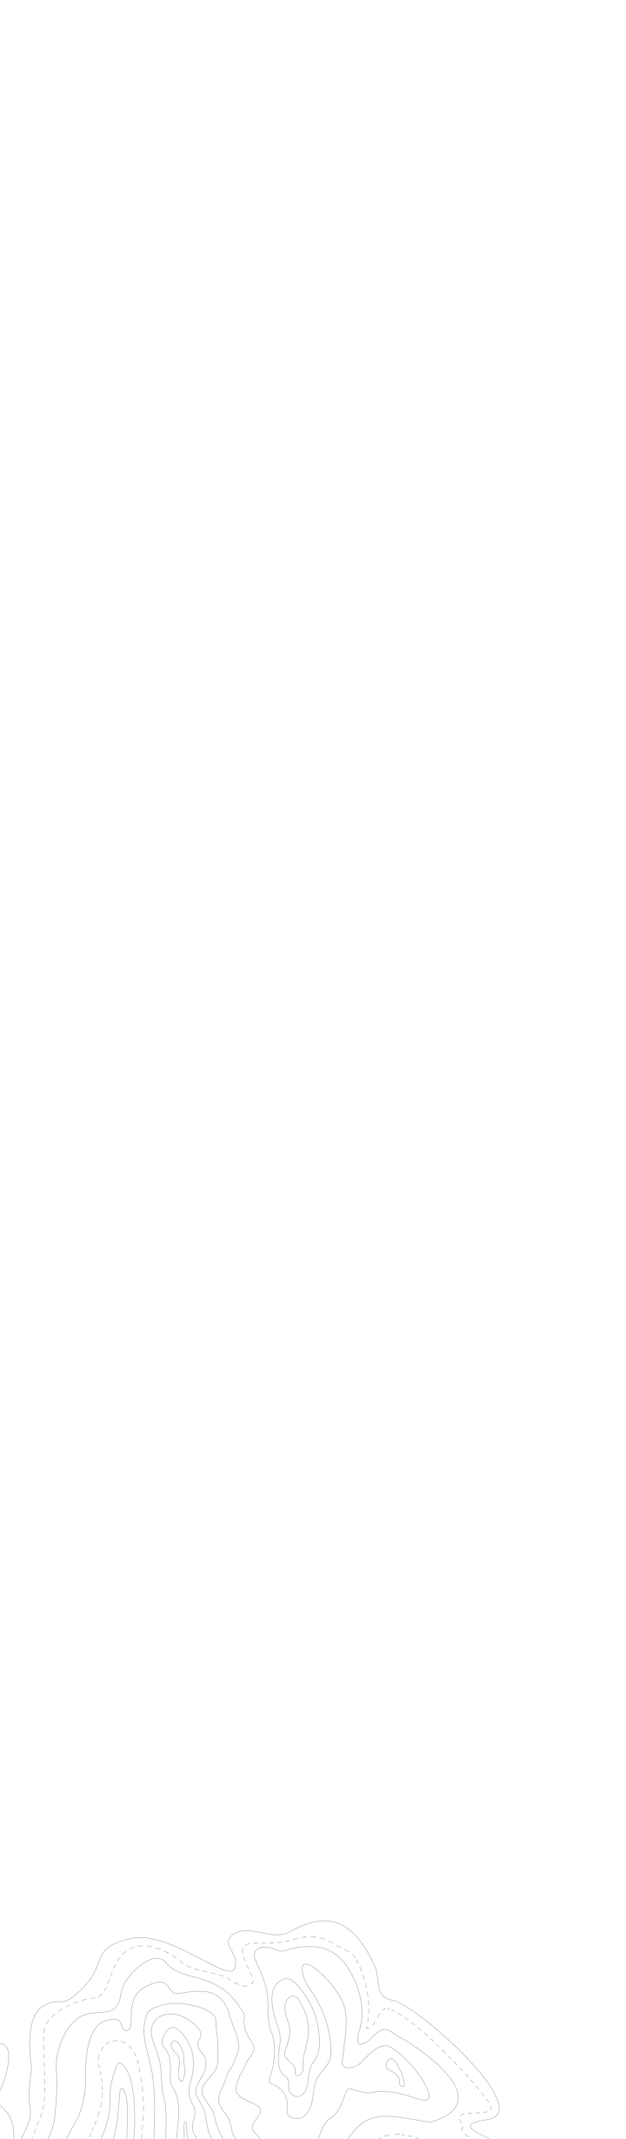
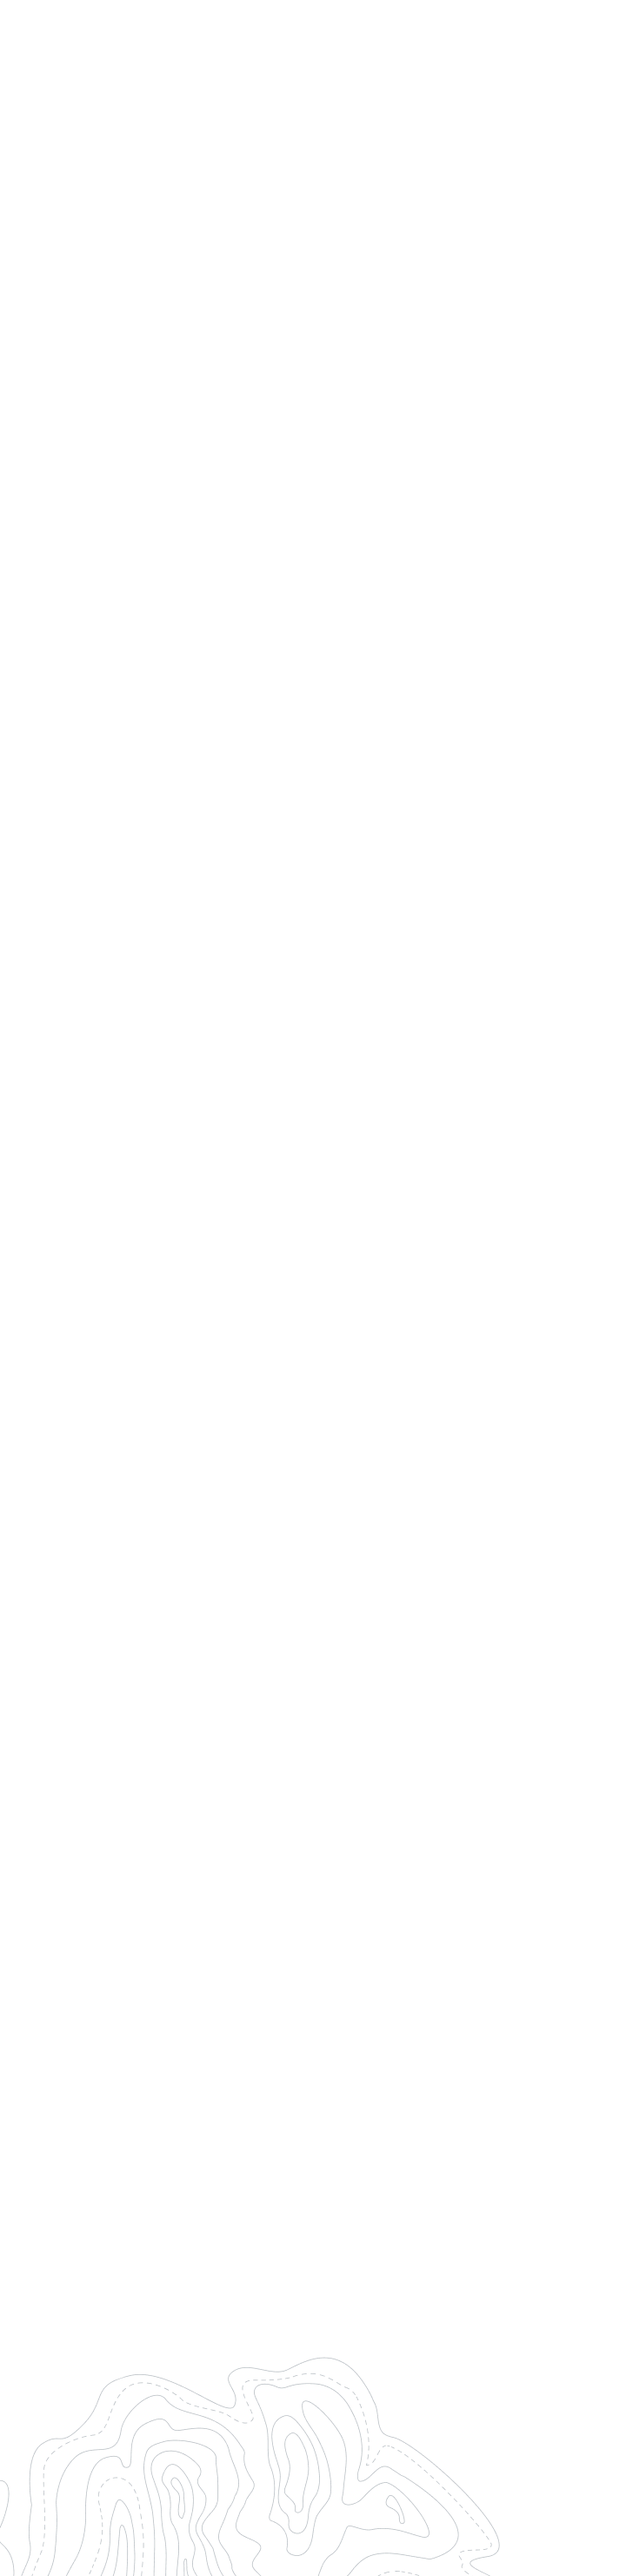
fix: 패턴 배경 수정, 모바일 패턴 파일 변경 (#1)

diff --git a/assets/css/details/screenshots.css b/assets/css/details/screenshots.css
@@ -10,8 +10,8 @@ section.screenshots {
   position: relative;
   width: 100%;
   padding-top: 194px;
-  margin-bottom: -194px;
-  transform: translateY(-194px);
+  margin-bottom: -198px;
+  transform: translateY(-197px);
 }
 
 .theme-header-wrapper::before {
@@ -141,7 +141,13 @@ section.screenshots {
     grid-template-columns: 32.5% 32% 32.5%;
   }
 }
-
+@media screen and (max-width: 1050px) { 
+  .theme-header-wrapper {
+    margin-bottom: -215px;
+    transform: translateY(-215px);
+    padding-top: 215px;
+  }
+}
 @media screen and (max-width: 769px) {
   .theme-header-wrapper::before {
     background-position: center bottom;
@@ -181,10 +187,5 @@ section.screenshots {
   }
   .preview-item img {
     aspect-ratio: 533 / 332 !important;
-  }
-
-  .theme-header-wrapper.theme-space-wonders::before {
-    top: -135px;
-    height: calc(100% + 135px);
   }
 }

diff --git a/assets/css/details/playful.css b/assets/css/details/playful.css
@@ -50,6 +50,7 @@ section.playful.theme-landscape {
   font-weight: 600;
   text-align: center;
   letter-spacing: -0.96px;
+  line-height: normal;
   align-self: center;
   position: relative;
   padding-bottom: 28px;
@@ -266,6 +267,7 @@ section.playful.theme-landscape {
   font-size: 24px;
   font-weight: 600;
   letter-spacing: -0.02em;
+  line-height: normal;
 }
 
 .feature-text p {
